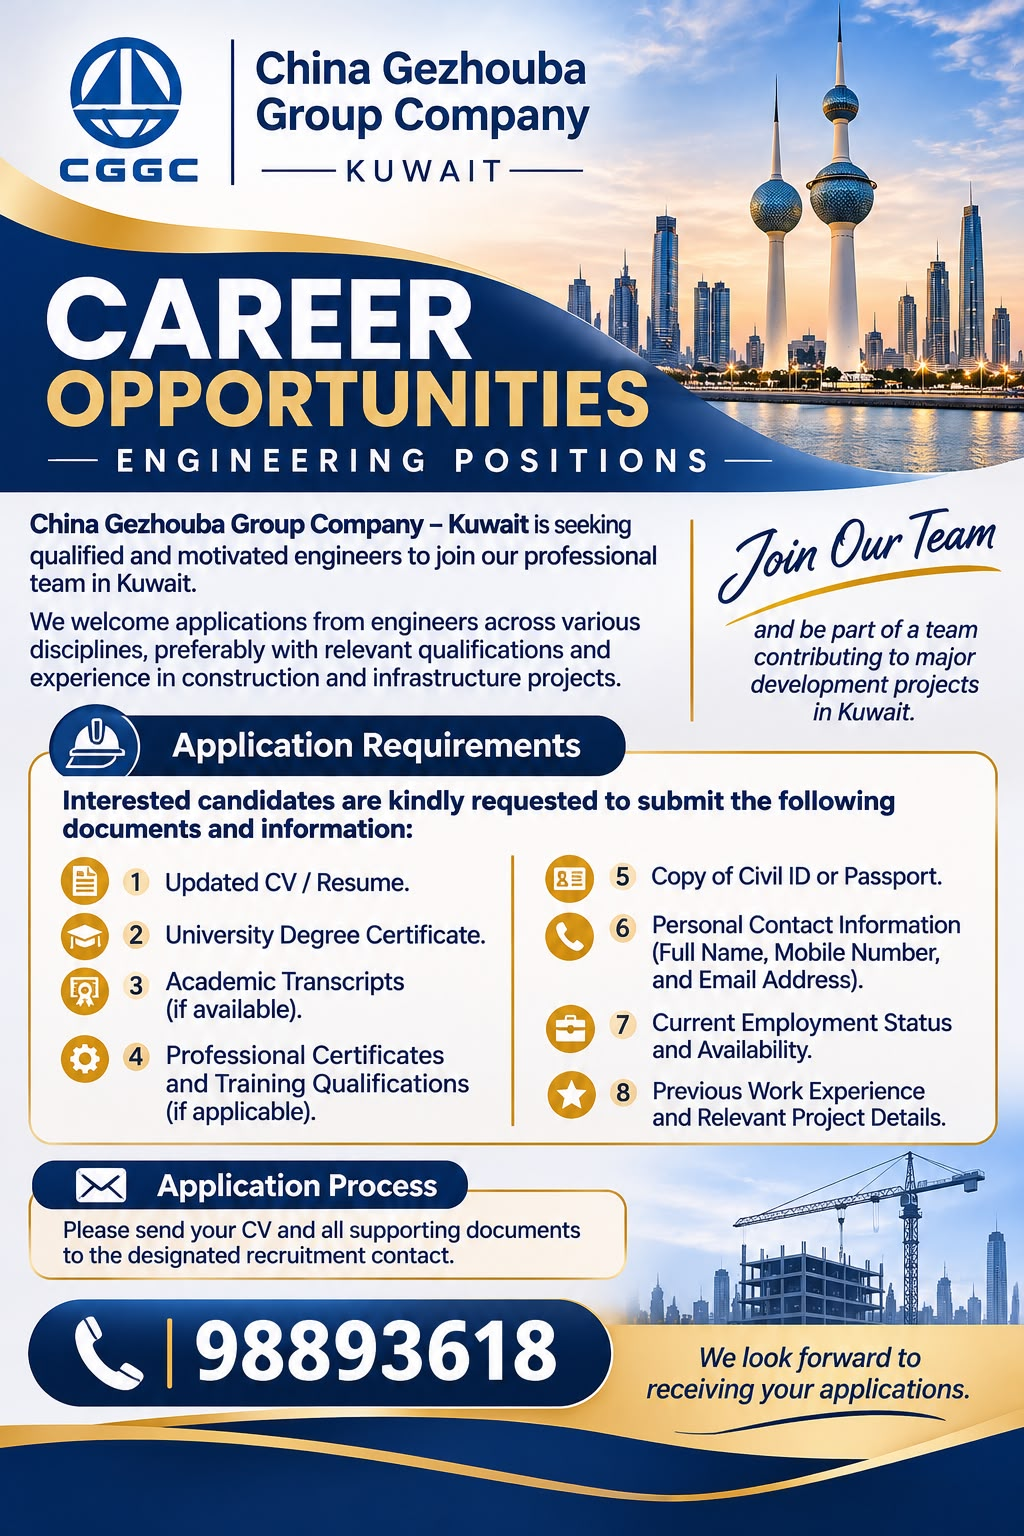
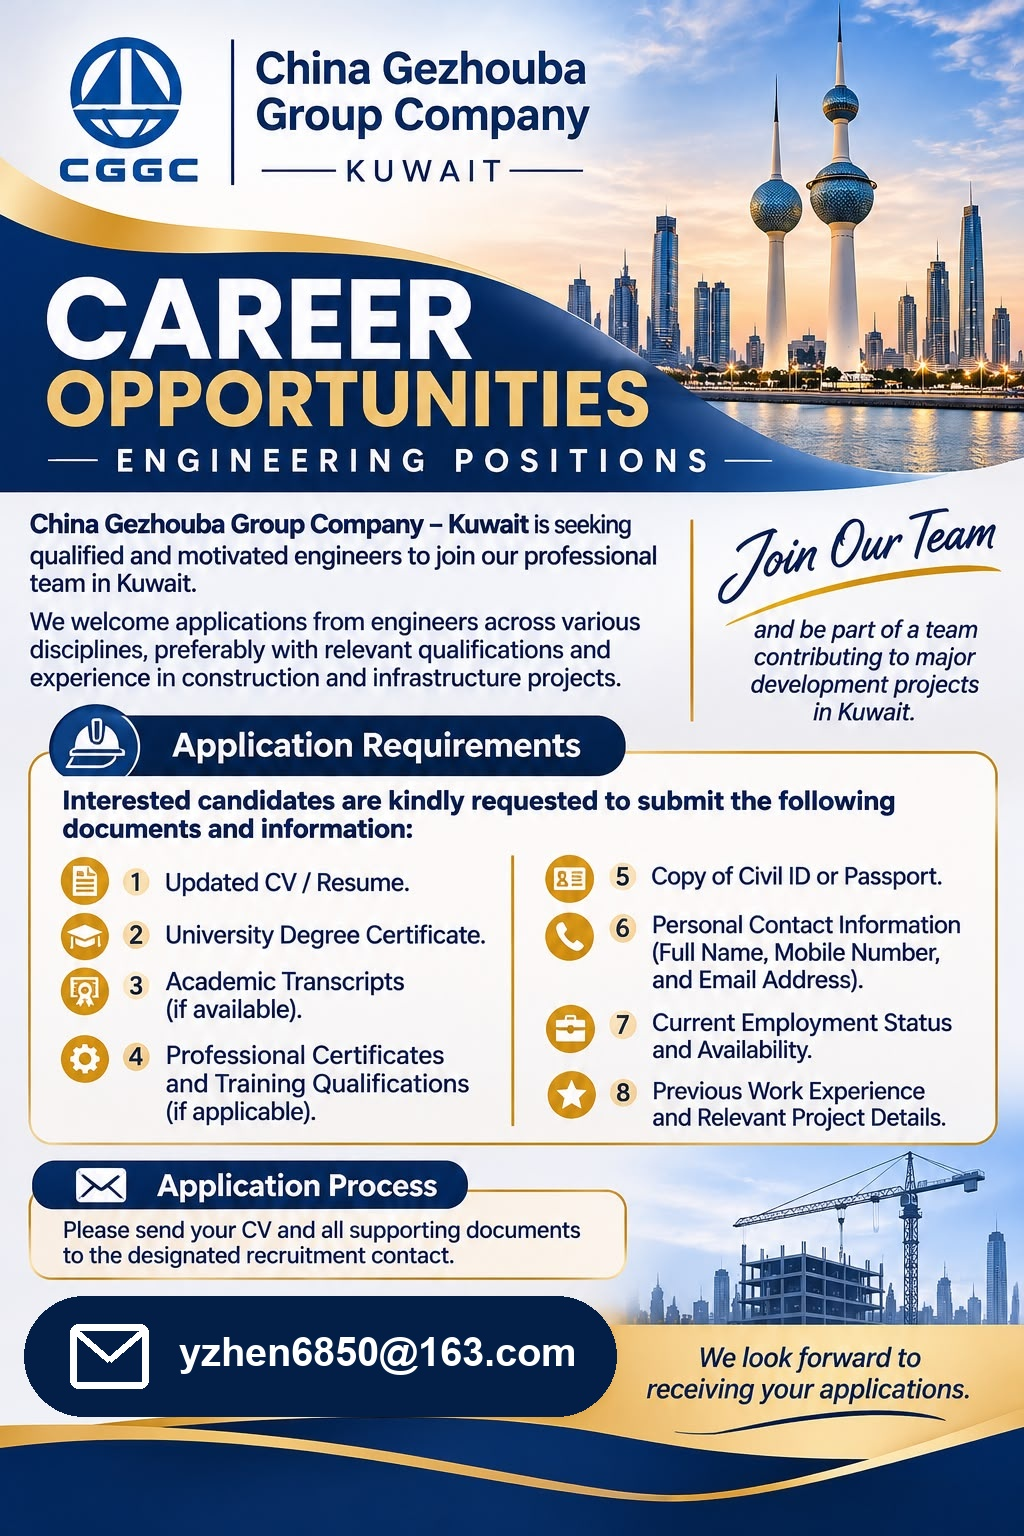
Recruitment contact: email-only (yzhen6850@163.com), remove phone number

Changed region(s): [[0.0312, 0.8438, 0.5938, 0.9375], [0.5938, 0.875, 0.625, 0.9062], [0.0, 0.875, 0.0312, 0.9062]]

diff --git a/recruit.html b/recruit.html
@@ -190,10 +190,9 @@
           <li>Previous Work Experience and Relevant Project Details.</li>
         </ol>
         <div class="apply-cta">
-          <a class="btn btn-primary" href="mailto:yuanzhen@cggcintl.com?subject=Application%20-%20Site%20Engineer%20(National%20Recruitment%20Scheme)">Email Your Application</a>
+          <a class="btn btn-primary" href="mailto:yzhen6850@163.com?subject=Application%20-%20Site%20Engineer%20(National%20Recruitment%20Scheme)">Email Your Application</a>
           <div class="apply-contacts">
-            <p><span>Email</span><strong>yuanzhen@cggcintl.com</strong></p>
-            <p><span>Phone / WhatsApp</span><strong dir="ltr">+965 9889 3618</strong></p>
+            <p><span>Email</span><strong>yzhen6850@163.com</strong></p>
           </div>
         </div>
       </div>
@@ -222,7 +221,7 @@
       </div>
       <div>
         <h5>Apply</h5>
-        <a href="mailto:yuanzhen@cggcintl.com">yuanzhen@cggcintl.com</a>
+        <a href="mailto:yzhen6850@163.com">yzhen6850@163.com</a>
         <p class="footer-addr">Kuwait City or Project Site<br>(South Saad Al Abdullah)</p>
       </div>
     </div>
